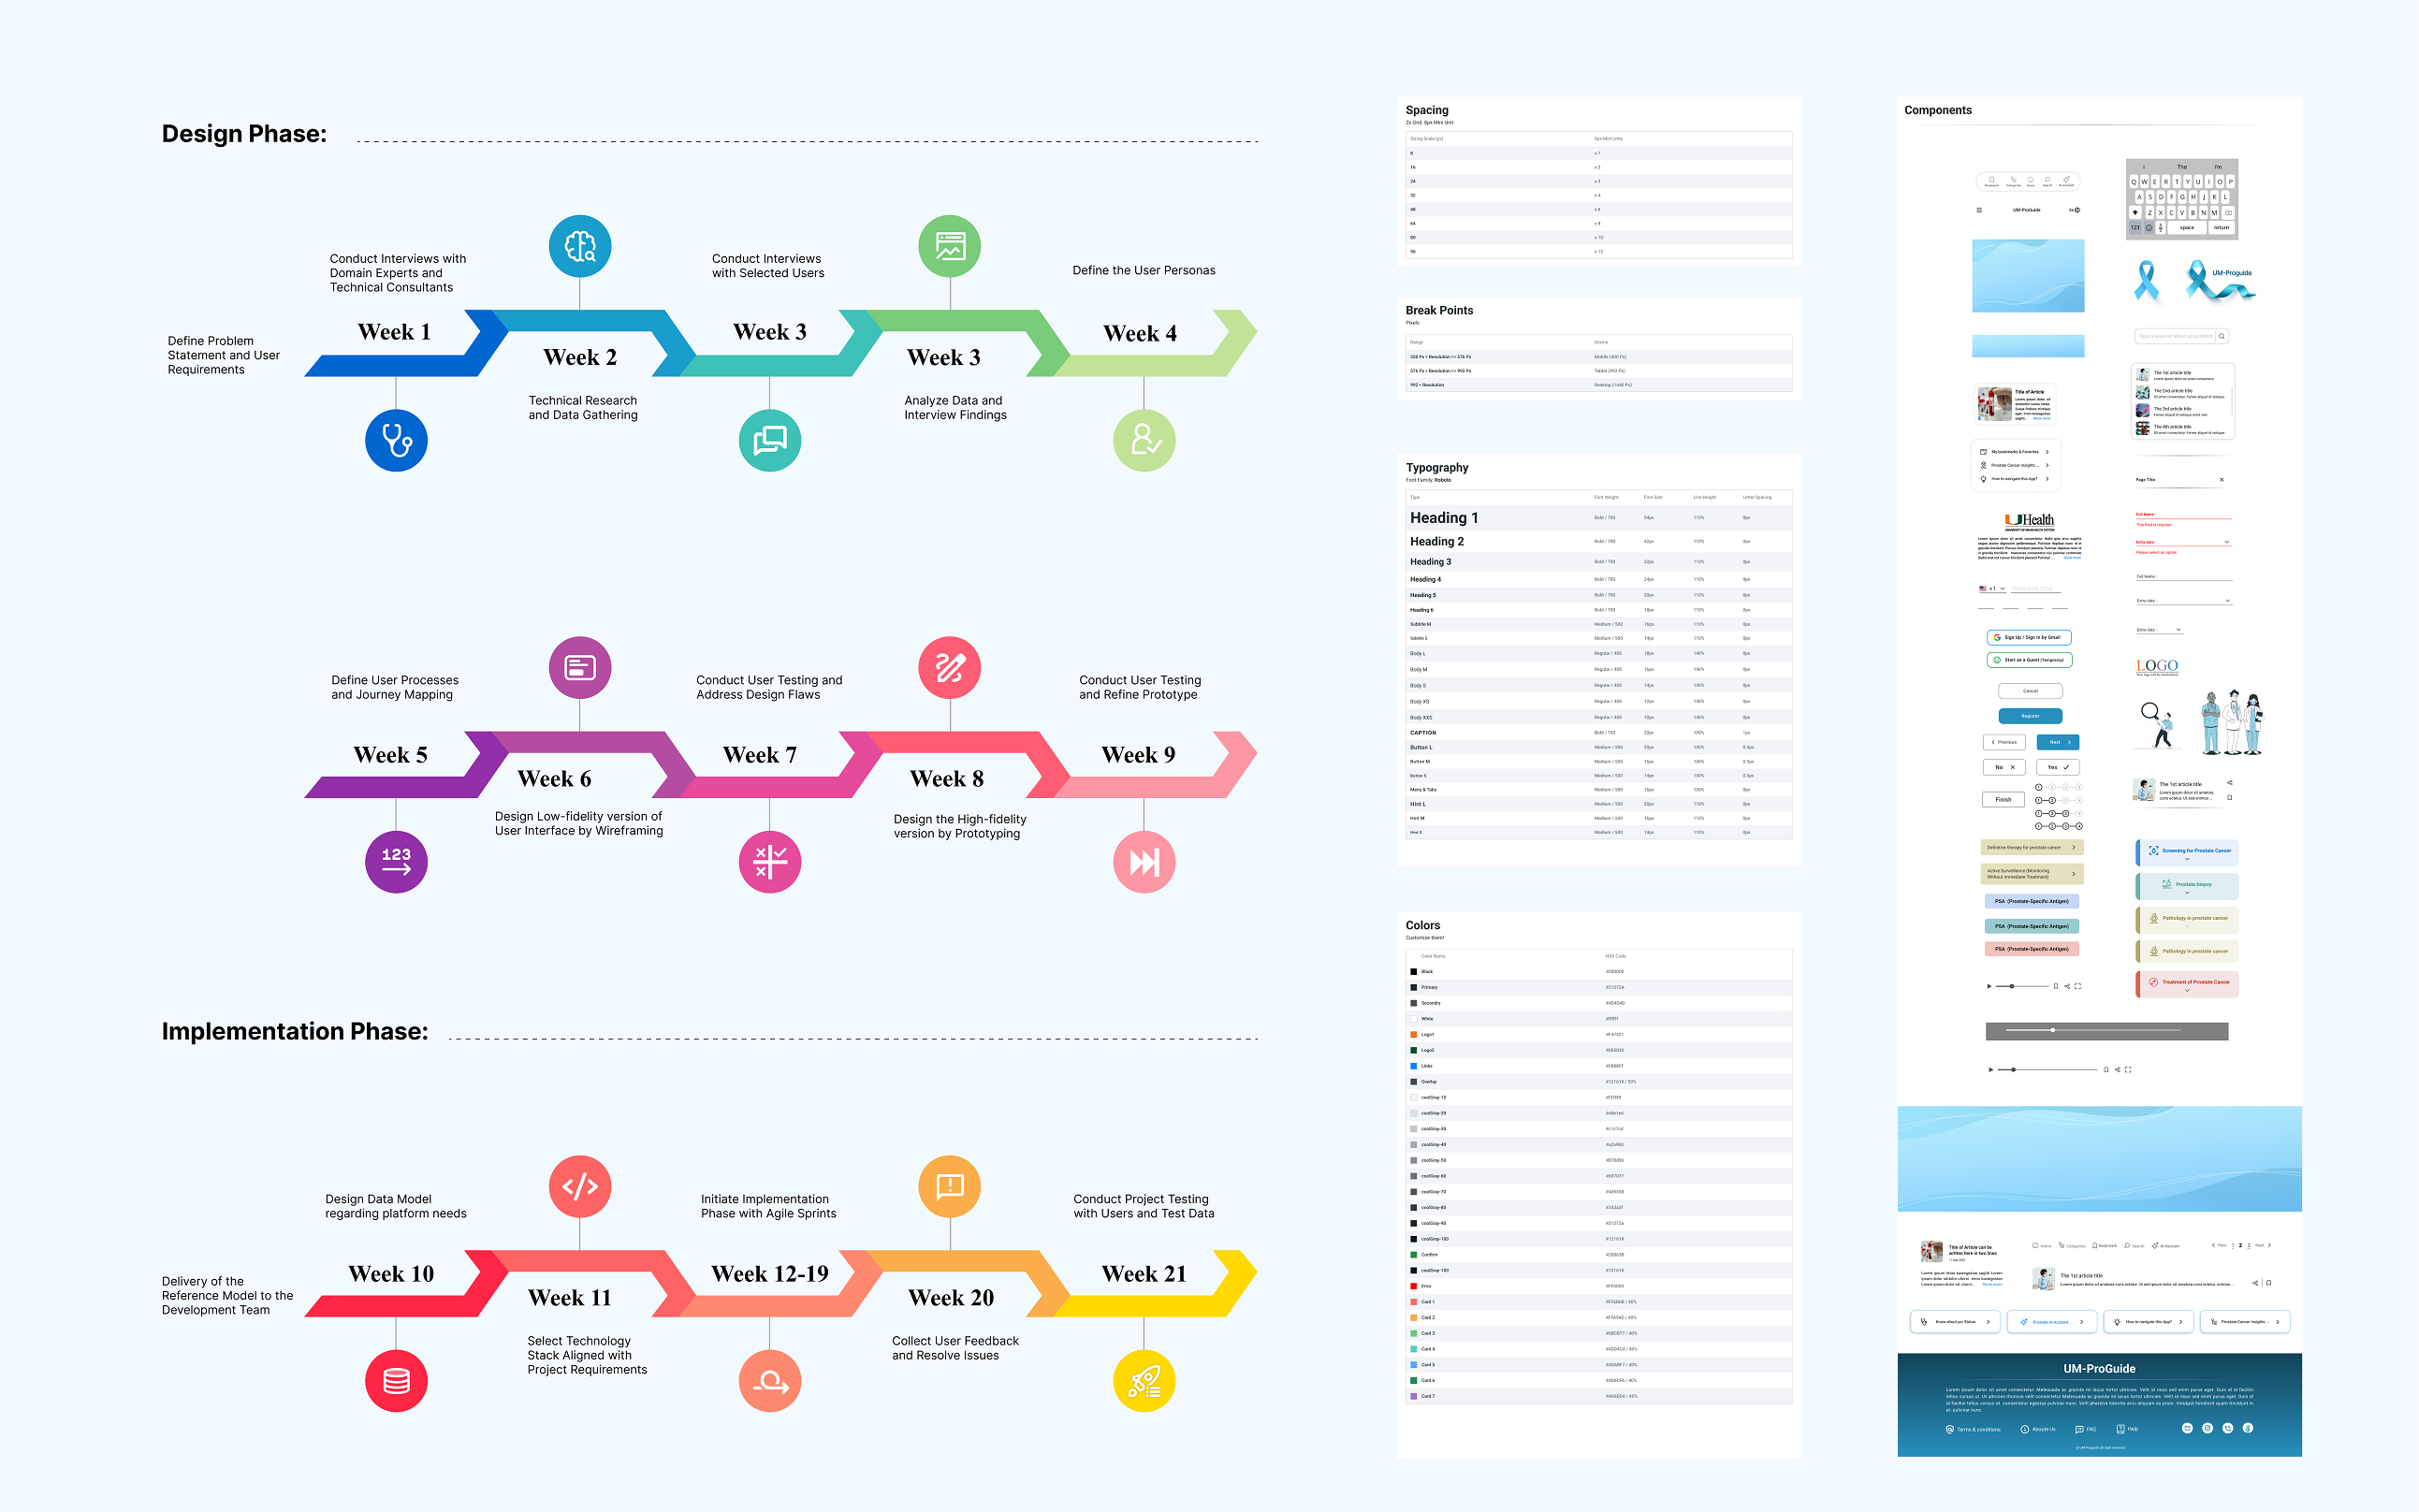
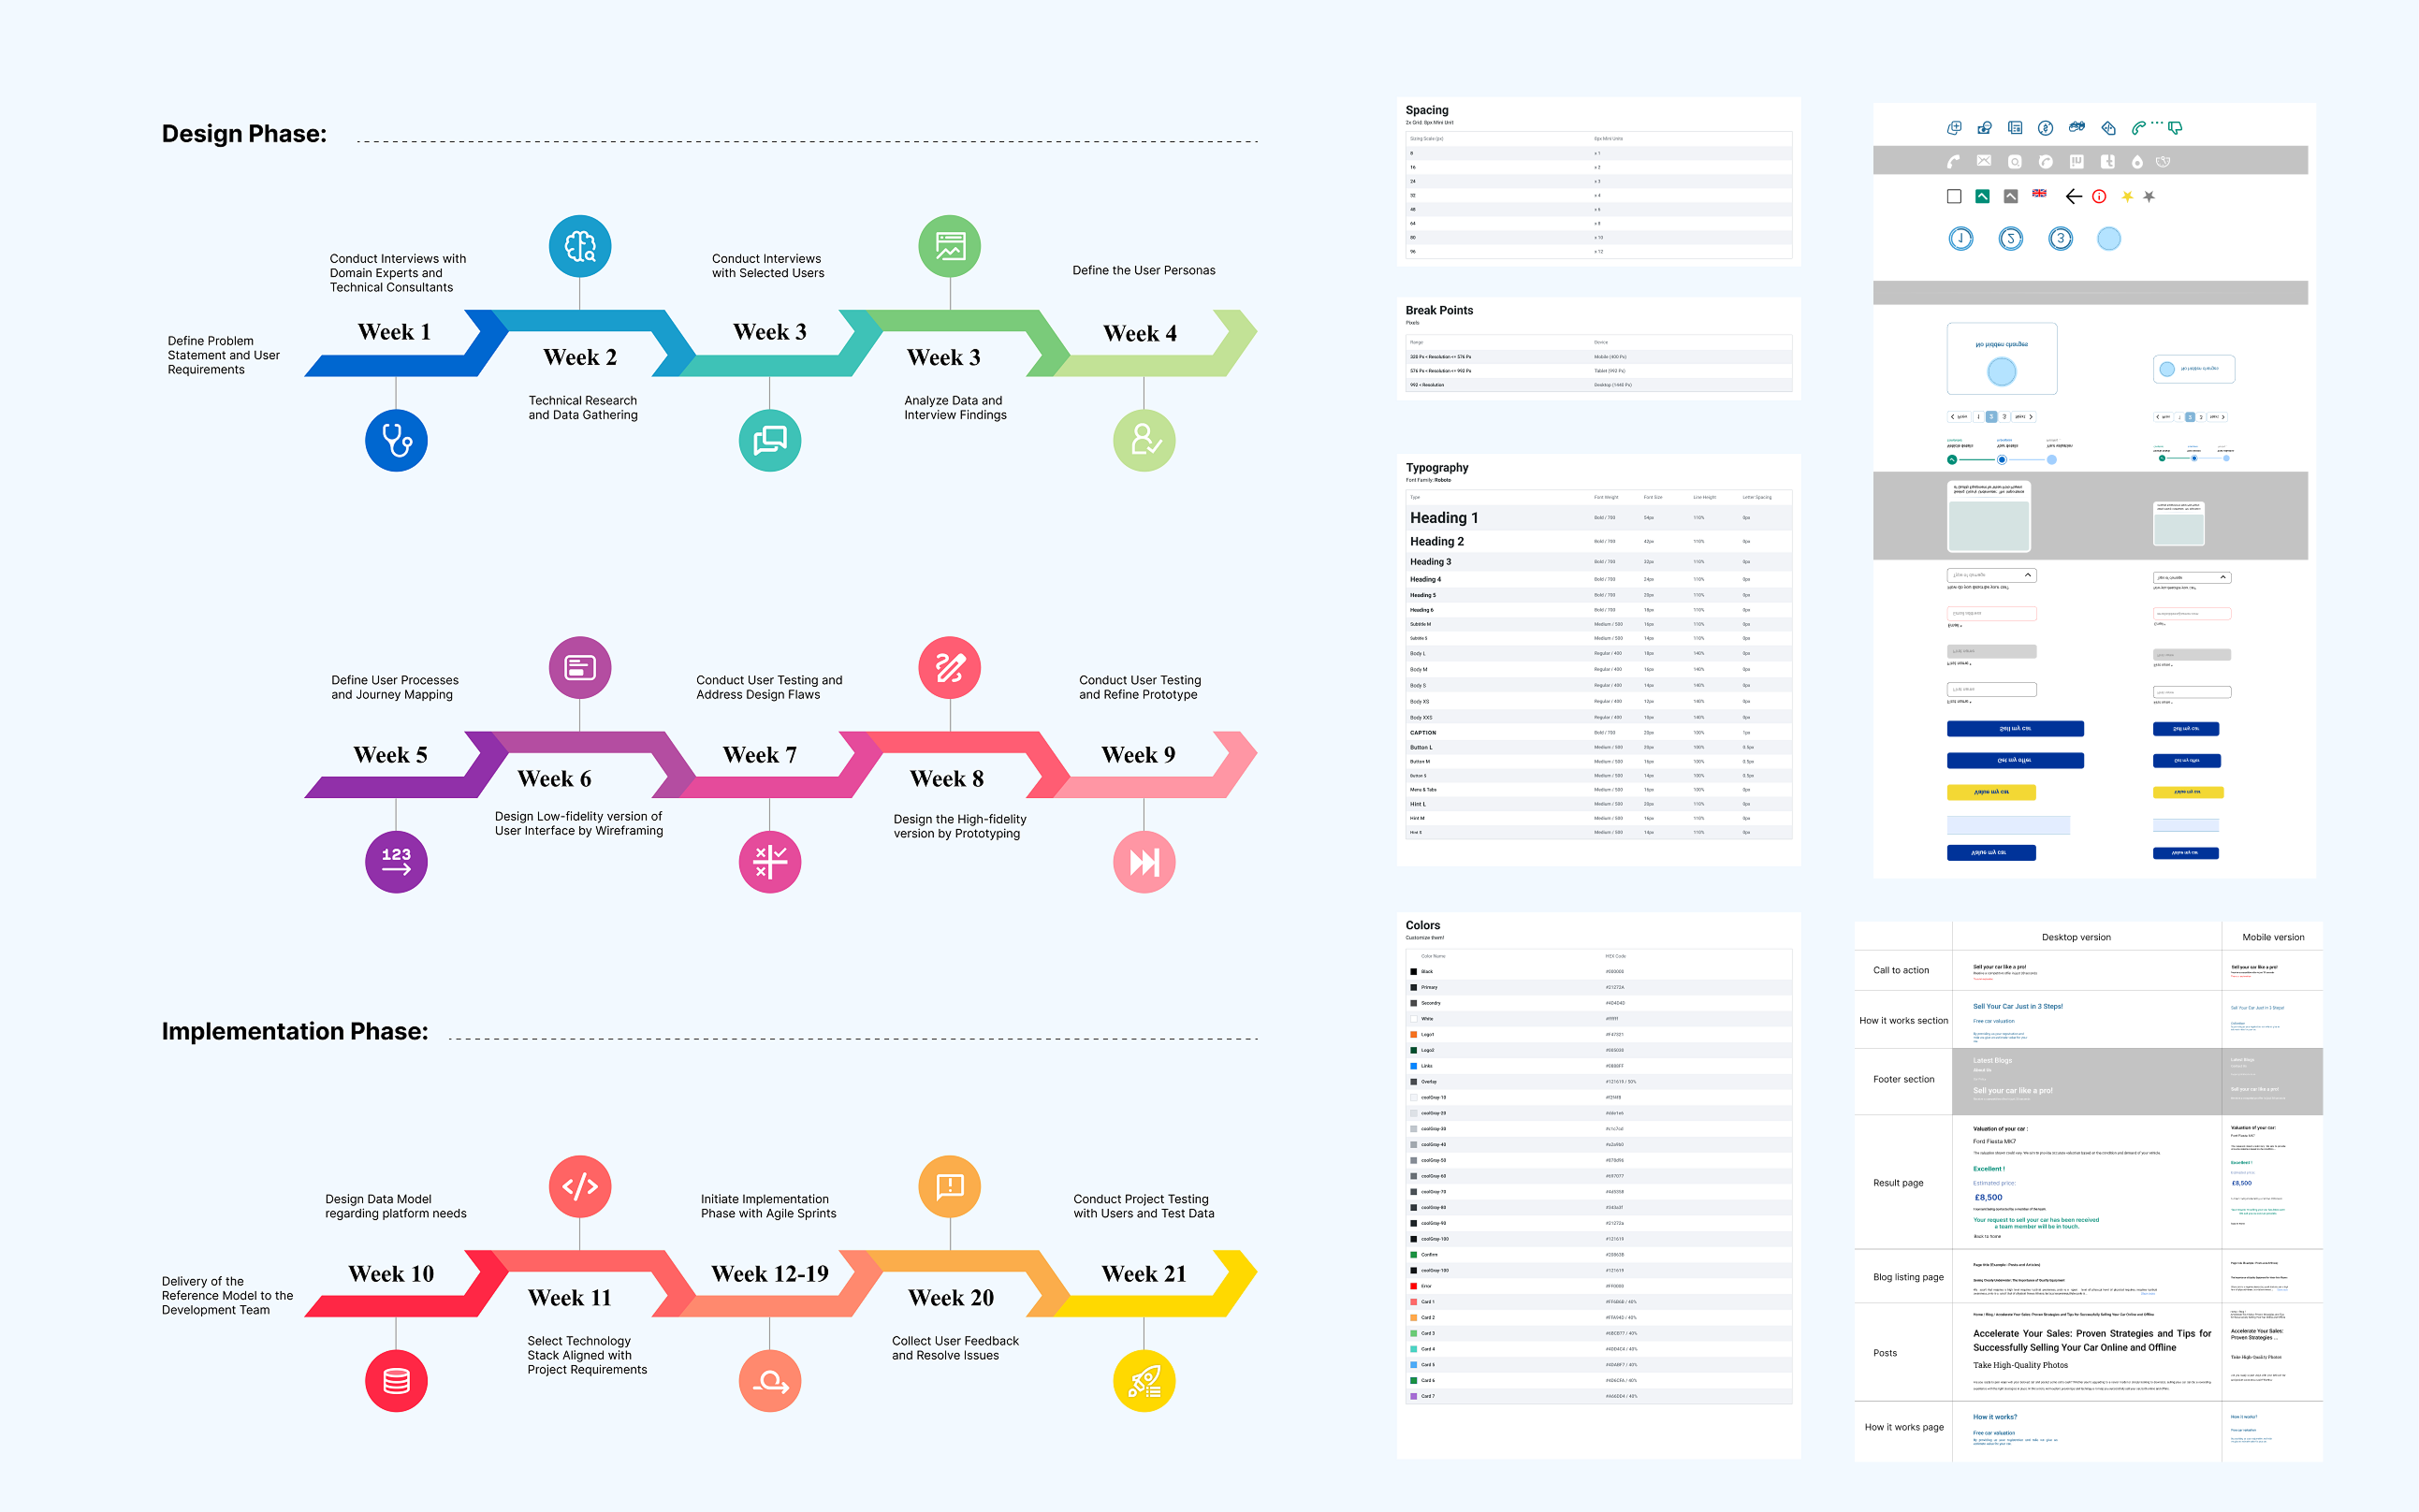
Add files via upload

Changed region(s): [[0.7737, 0.0619, 0.9594, 0.9901]]

diff --git a/index.html b/index.html
@@ -72,7 +72,7 @@
       </div>
 
       <div class="hero-actions">
-        <a href="#work" class="btn btn-primary btn-wide">View case studies ↓</a>
+        <a href="#work" class="btn btn-primary btn-wide">View Portfolio ↓</a>
       </div>
     </div>
   </section>